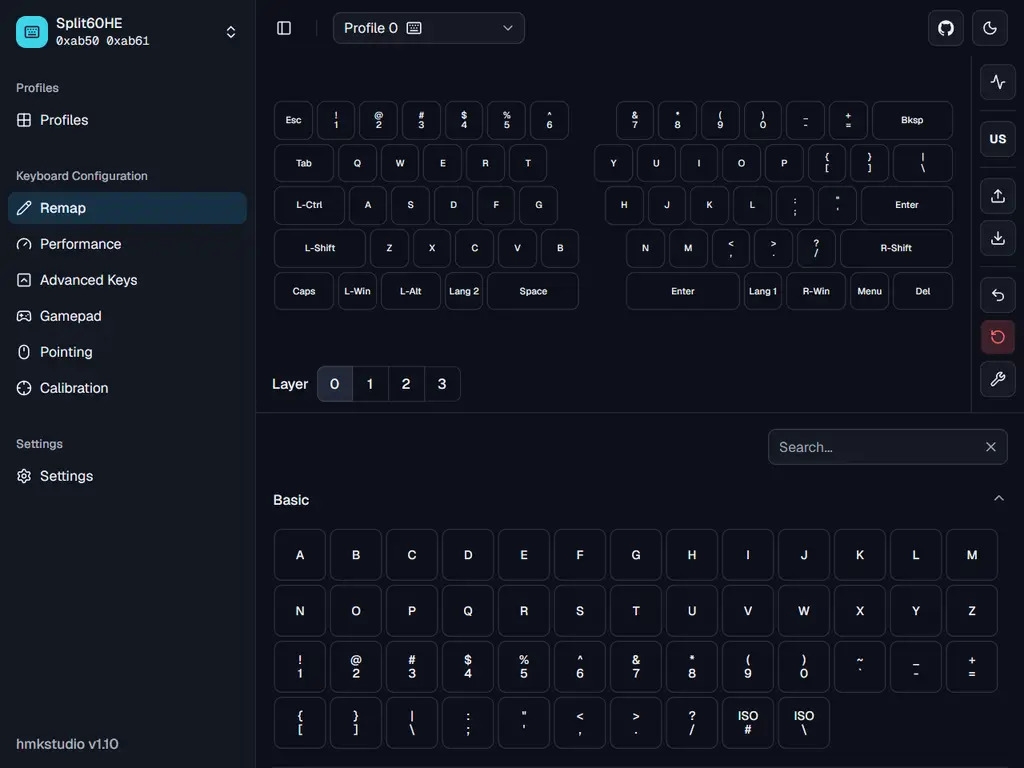
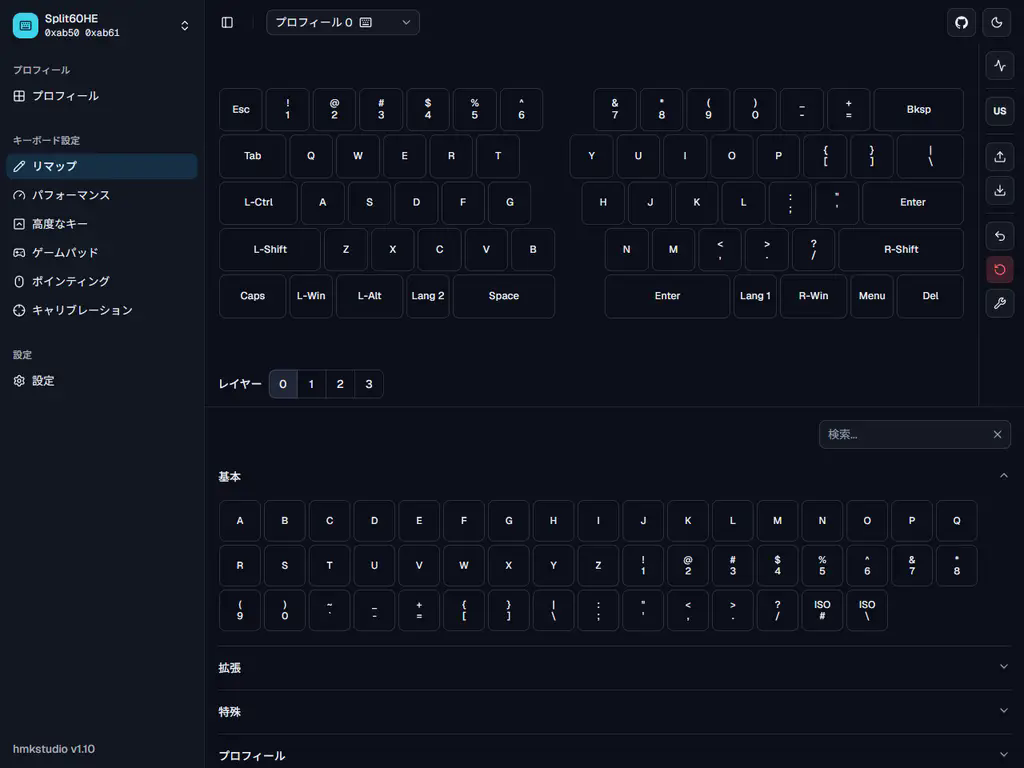
fix: retake home screenshots in Japanese, add toolbar right margin

diff --git a/%TEMP%demo.html b/%TEMP%demo.html
@@ -1,0 +1,56 @@
+<!doctype html>
+<html lang="en">
+  <head>
+    <meta charset="utf-8" />
+    <meta name="viewport" content="width=device-width, initial-scale=1" />
+    <link href="./_app/immutable/entry/start.CPsytuDL.js" rel="modulepreload">
+		<link href="./_app/immutable/chunks/BQhhnDX7.js" rel="modulepreload">
+		<link href="./_app/immutable/chunks/CECbHWWs.js" rel="modulepreload">
+		<link href="./_app/immutable/entry/app.CfVoHYuA.js" rel="modulepreload">
+		<link href="./_app/immutable/chunks/HclGiUj8.js" rel="modulepreload">
+		<link href="./_app/immutable/chunks/xihTtKlq.js" rel="modulepreload">
+		<link href="./_app/immutable/nodes/0.PY6RaEkl.js" rel="modulepreload">
+		<link href="./_app/immutable/chunks/Di26GAco.js" rel="modulepreload">
+		<link href="./_app/immutable/chunks/D58Cibtw.js" rel="modulepreload">
+		<link href="./_app/immutable/chunks/D0_wvli1.js" rel="modulepreload">
+		<link href="./_app/immutable/chunks/B5OdAVkZ.js" rel="modulepreload">
+		<link href="./_app/immutable/chunks/DcLl0Ard.js" rel="modulepreload">
+		<link href="./_app/immutable/nodes/3.C81AUXqC.js" rel="modulepreload">
+		<link href="./_app/immutable/chunks/WSAZPU9P.js" rel="modulepreload">
+		<link href="./_app/immutable/chunks/D2ws2gQX.js" rel="modulepreload">
+		<link href="./_app/immutable/chunks/CclNjN-l.js" rel="modulepreload">
+		<link href="./_app/immutable/chunks/D7IAYjgf.js" rel="modulepreload">
+		<link href="./_app/immutable/chunks/C3_6Y92m.js" rel="modulepreload">
+		<link href="./_app/immutable/chunks/CnU8qlWs.js" rel="modulepreload">
+		<link href="./_app/immutable/chunks/Dg4DzwfX.js" rel="modulepreload">
+		<link href="./_app/immutable/chunks/Ww5bwPJQ.js" rel="modulepreload">
+		<link href="./_app/immutable/chunks/CC0VQNqv.js" rel="modulepreload">
+		<link href="./_app/immutable/chunks/DmPESoD1.js" rel="modulepreload">
+		<link href="./_app/immutable/chunks/Ciy3kYeF.js" rel="modulepreload">
+		
+		<link href="./_app/immutable/assets/0.7kDG_XCA.css" rel="stylesheet">
+		<link href="./_app/immutable/assets/select.CV-KWLNP.css" rel="stylesheet">
+		<link href="./_app/immutable/assets/fixed-scroll-area.QE5ZuEV4.css" rel="stylesheet">
+  </head>
+  <body data-sveltekit-preload-data="hover">
+    <div style="display: contents">
+			<script>
+				{
+					__sveltekit_1v52ytx = {
+						base: new URL(".", location).pathname.slice(0, -1),
+						assets: "/hmkstudio"
+					};
+
+					const element = document.currentScript.parentElement;
+
+					Promise.all([
+						import("./_app/immutable/entry/start.CPsytuDL.js"),
+						import("./_app/immutable/entry/app.CfVoHYuA.js")
+					]).then(([kit, app]) => {
+						kit.start(app, element);
+					});
+				}
+			</script>
+		</div>
+  </body>
+</html>

diff --git a/%TEMP%hmkdemo.html b/%TEMP%hmkdemo.html
@@ -1,0 +1,56 @@
+<!doctype html>
+<html lang="en">
+  <head>
+    <meta charset="utf-8" />
+    <meta name="viewport" content="width=device-width, initial-scale=1" />
+    <link href="./_app/immutable/entry/start.CPsytuDL.js" rel="modulepreload">
+		<link href="./_app/immutable/chunks/BQhhnDX7.js" rel="modulepreload">
+		<link href="./_app/immutable/chunks/CECbHWWs.js" rel="modulepreload">
+		<link href="./_app/immutable/entry/app.CfVoHYuA.js" rel="modulepreload">
+		<link href="./_app/immutable/chunks/HclGiUj8.js" rel="modulepreload">
+		<link href="./_app/immutable/chunks/xihTtKlq.js" rel="modulepreload">
+		<link href="./_app/immutable/nodes/0.PY6RaEkl.js" rel="modulepreload">
+		<link href="./_app/immutable/chunks/Di26GAco.js" rel="modulepreload">
+		<link href="./_app/immutable/chunks/D58Cibtw.js" rel="modulepreload">
+		<link href="./_app/immutable/chunks/D0_wvli1.js" rel="modulepreload">
+		<link href="./_app/immutable/chunks/B5OdAVkZ.js" rel="modulepreload">
+		<link href="./_app/immutable/chunks/DcLl0Ard.js" rel="modulepreload">
+		<link href="./_app/immutable/nodes/3.C81AUXqC.js" rel="modulepreload">
+		<link href="./_app/immutable/chunks/WSAZPU9P.js" rel="modulepreload">
+		<link href="./_app/immutable/chunks/D2ws2gQX.js" rel="modulepreload">
+		<link href="./_app/immutable/chunks/CclNjN-l.js" rel="modulepreload">
+		<link href="./_app/immutable/chunks/D7IAYjgf.js" rel="modulepreload">
+		<link href="./_app/immutable/chunks/C3_6Y92m.js" rel="modulepreload">
+		<link href="./_app/immutable/chunks/CnU8qlWs.js" rel="modulepreload">
+		<link href="./_app/immutable/chunks/Dg4DzwfX.js" rel="modulepreload">
+		<link href="./_app/immutable/chunks/Ww5bwPJQ.js" rel="modulepreload">
+		<link href="./_app/immutable/chunks/CC0VQNqv.js" rel="modulepreload">
+		<link href="./_app/immutable/chunks/DmPESoD1.js" rel="modulepreload">
+		<link href="./_app/immutable/chunks/Ciy3kYeF.js" rel="modulepreload">
+		
+		<link href="./_app/immutable/assets/0.7kDG_XCA.css" rel="stylesheet">
+		<link href="./_app/immutable/assets/select.CV-KWLNP.css" rel="stylesheet">
+		<link href="./_app/immutable/assets/fixed-scroll-area.QE5ZuEV4.css" rel="stylesheet">
+  </head>
+  <body data-sveltekit-preload-data="hover">
+    <div style="display: contents">
+			<script>
+				{
+					__sveltekit_1v52ytx = {
+						base: new URL(".", location).pathname.slice(0, -1),
+						assets: "/hmkstudio"
+					};
+
+					const element = document.currentScript.parentElement;
+
+					Promise.all([
+						import("./_app/immutable/entry/start.CPsytuDL.js"),
+						import("./_app/immutable/entry/app.CfVoHYuA.js")
+					]).then(([kit, app]) => {
+						kit.start(app, element);
+					});
+				}
+			</script>
+		</div>
+  </body>
+</html>

diff --git a/src/lib/configurator/remap/remap-toolbar.svelte b/src/lib/configurator/remap/remap-toolbar.svelte
@@ -136,7 +136,7 @@ this program. If not, see <https://www.gnu.org/licenses/>.
   }
 </script>
 
-<div class="flex flex-col items-center gap-1.5 border-l p-2">
+<div class="flex flex-col items-center gap-1.5 border-l py-2 pl-2 pr-3">
   <div class="flex flex-col items-center gap-1.5">
     <Tooltip.Root>
       <Tooltip.Trigger>
